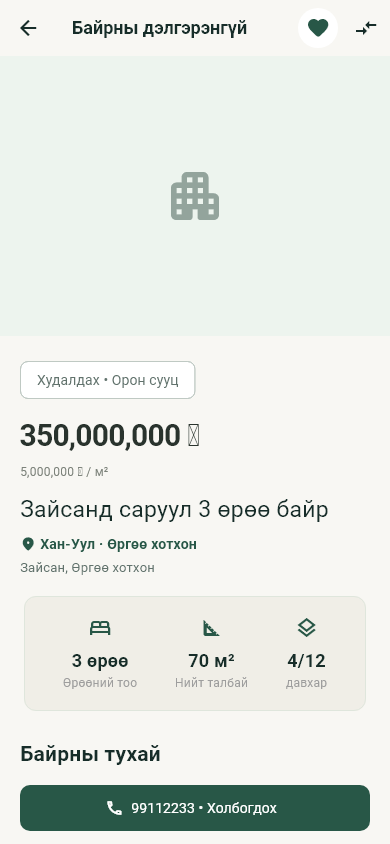
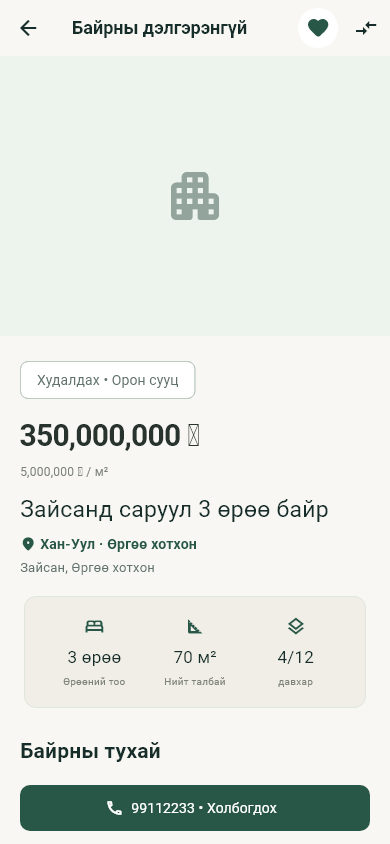
d

diff --git a/bair_app/lib/screens/property_detail_page.dart b/bair_app/lib/screens/property_detail_page.dart
@@ -482,16 +482,26 @@ class _Fact extends StatelessWidget {
   final String value, label;
   const _Fact({required this.icon, required this.value, required this.label});
   @override
-  Widget build(BuildContext context) => Column(
-    children: [
-      Icon(icon, color: const Color(0xFF285747)),
-      const SizedBox(height: 8),
-      Text(
-        value,
-        style: const TextStyle(fontSize: 18, fontWeight: FontWeight.w700),
-      ),
-      Text(label, style: const TextStyle(color: Colors.grey, fontSize: 12)),
-    ],
+  Widget build(BuildContext context) => Expanded(
+    child: Column(
+      children: [
+        Icon(icon, color: const Color(0xFF285747), size: 21),
+        const SizedBox(height: 8),
+        FittedBox(
+          fit: BoxFit.scaleDown,
+          child: Text(
+            value,
+            style: const TextStyle(fontSize: 17, fontWeight: FontWeight.w500),
+          ),
+        ),
+        const SizedBox(height: 5),
+        Text(
+          label,
+          textAlign: TextAlign.center,
+          style: const TextStyle(color: Color(0xFF7D837B), fontSize: 10),
+        ),
+      ],
+    ),
   );
 }
 

diff --git a/bair_app/lib/screens/main_screen.dart b/bair_app/lib/screens/main_screen.dart
@@ -65,8 +65,9 @@ class _MainScreenState extends State<MainScreen> {
                   const Spacer(),
                   FilledButton.icon(
                     onPressed: () async {
-                      if (!await requireLogin(context) || !context.mounted)
+                      if (!await requireLogin(context) || !context.mounted) {
                         return;
+                      }
                       Navigator.push(
                         context,
                         MaterialPageRoute(

diff --git a/bair_app/test/widget_test.dart b/bair_app/test/widget_test.dart
@@ -401,6 +401,7 @@ void main() {
       expect(find.text('Дараагийн гэрээ эндээс.'), findsOneWidget);
       expect(find.text('Үр дүн харах'), findsOneWidget);
       await tester.enterText(find.byType(TextField).at(1), '100000000');
+      await tester.ensureVisible(find.text('Үр дүн харах'));
       await tester.tap(find.text('Үр дүн харах'));
       await tester.pumpAndSettle();
       expect(requests.last.url.queryParameters['min_price'], '100000000');

diff --git a/bair_app/lib/widgets/desktop_browser.dart b/bair_app/lib/widgets/desktop_browser.dart
@@ -1,4 +1,5 @@
 import 'package:flutter/material.dart';
+import 'package:flutter/foundation.dart';
 
 import '../models/property.dart';
 import 'brand.dart';
@@ -58,7 +59,7 @@ class _DesktopBrowserState extends State<DesktopBrowser> {
   @override
   void didUpdateWidget(DesktopBrowser oldWidget) {
     super.didUpdateWidget(oldWidget);
-    sync();
+    if (!mapEquals(oldWidget.query, widget.query)) sync();
   }
 
   @override
